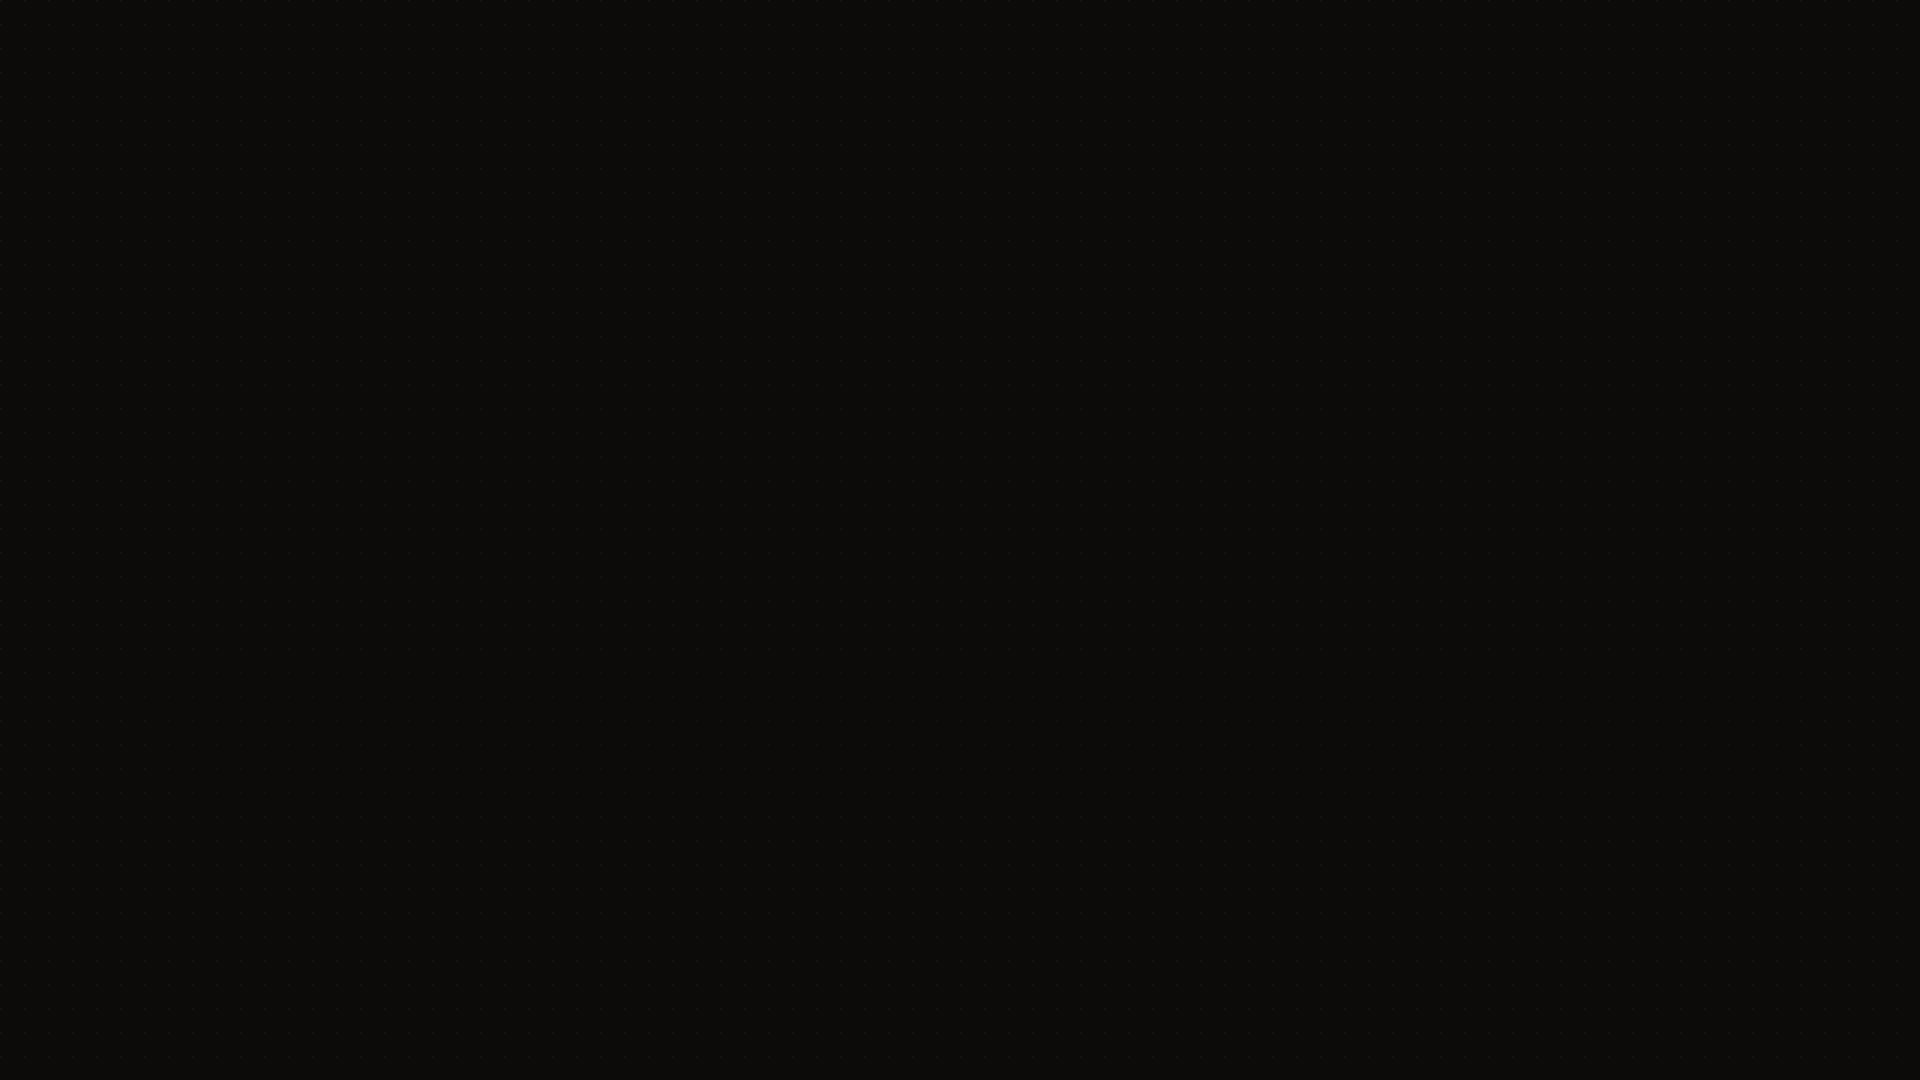
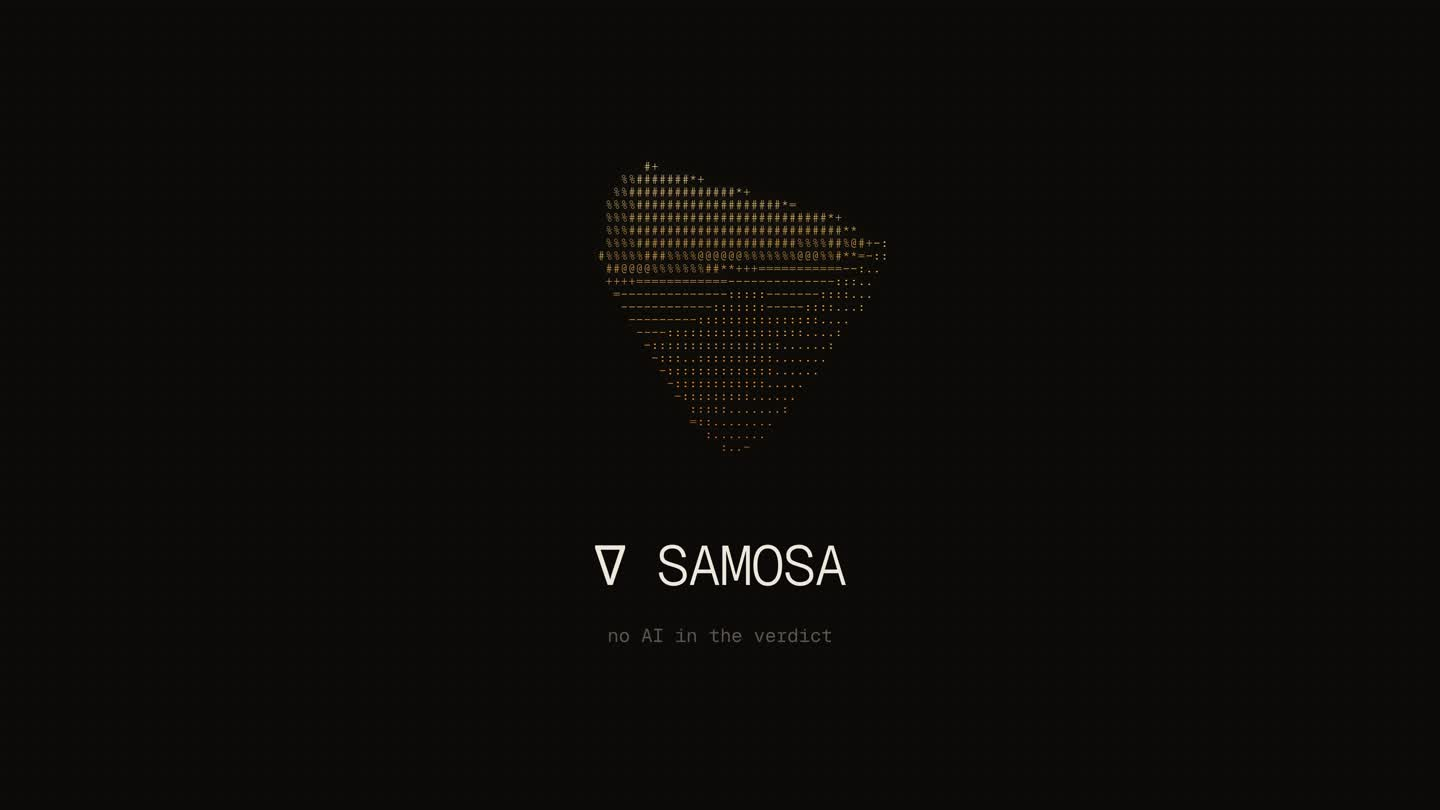
the docs are pages of the site, and every path carries the policy

Changed region(s): [[0.4062, 0.216, 0.5938, 0.4938], [0.4062, 0.6481, 0.5938, 0.7407], [0.4375, 0.7716, 0.5625, 0.8025]]

diff --git a/vite.config.ts b/vite.config.ts
@@ -12,12 +12,11 @@ const CSP =
 
 /** The local preview serves the policy the host serves, so the browser tests
  * run against the real thing. */
-const servePolicy: Connect.NextHandleFunction = (req, res, next) => {
-  const path = req.url?.split('?')[0] ?? '';
-  if (path === '/' || path === '/app' || path.startsWith('/app/')) {
-    res.setHeader('Content-Security-Policy', CSP);
-    res.setHeader('Referrer-Policy', 'no-referrer');
-  }
+const servePolicy: Connect.NextHandleFunction = (_req, res, next) => {
+  // every path, as on the host: the policy used to cover / and /app/ only,
+  // and /app without its slash, the link everyone shares, had none
+  res.setHeader('Content-Security-Policy', CSP);
+  res.setHeader('Referrer-Policy', 'no-referrer');
   next();
 };
 
@@ -26,7 +25,10 @@ const cleanUrls: Plugin = {
   name: 'clean-urls-preview',
   configurePreviewServer(server) {
     const redirectApp: Connect.NextHandleFunction = (req, _res, next) => {
-      if (req.url?.split('?')[0] === '/app') req.url = '/app/';
+      const path = req.url?.split('?')[0] ?? '';
+      if (path === '/app') req.url = '/app/';
+      // a rendered doc is served without its extension, as the host does
+      else if (/^\/docs\/[A-Z_]+$/.test(path)) req.url = `${path}.html`;
       next();
     };
     server.middlewares.use(redirectApp);

diff --git a/scripts/gen-announcements.ts b/scripts/gen-announcements.ts
@@ -34,10 +34,14 @@ export function announcementsOf(changelog: string): Announcement[] {
     const start = releases[i].index ?? 0;
     const end = i + 1 < releases.length ? (releases[i + 1].index ?? changelog.length) : changelog.length;
     const after = changelog.slice(start, end).split('\n').slice(1).join('\n');
-    const summary = after
-      .split('\n')
-      .find((line) => line.trim().length > 0 && !line.startsWith('#'))
-      ?.trim()
+    // the whole first paragraph: a changelog wraps its lines, and the first
+    // line alone stopped the 1.1.0 summary mid sentence
+    const paragraph = after
+      .split(/\n\s*\n/)
+      .map((block) => block.trim())
+      .find((block) => block.length > 0 && !block.startsWith('#'));
+    const summary = paragraph
+      ?.replace(/\s*\n\s*/g, ' ')
       .replace(/\[([^\]]+)\]\([^)]*\)/g, '$1')
       .replace(/\*([^*]*)\*/g, '$1')
       .trim();

diff --git a/docs/NOTATION.md b/docs/NOTATION.md
@@ -30,6 +30,13 @@ A run of letters is a product of single letter symbols: `cuv^\top` is c
 times u times v transpose. The only exceptions are the known functions and
 the functions you declared.
 
+A symbol you declared as a value is a factor, never a function, so
+`A (B + C)` and `x (y + z)` are products. An undeclared lowercase name before
+a parenthesis, `f(x)`, is a call.
+
+`a \times b` between two column vectors is the cross product, which makes
+both of them size 3. Anywhere else `\times` is the ordinary product.
+
 ## Scripts
 
 | Written | Read as |
@@ -38,11 +45,14 @@ the functions you declared.
 | `A^{-1}` | the inverse |
 | `A^{-\top}`, `A^{-T}` | the inverse transpose |
 | `A^{2}` | the square, or the power, depending on the shape |
-| `A^{1/2}` | the principal square root, numeric mode only |
+| `A^{1/2}`, `A^{-1/2}` | the principal square root and its inverse, numeric mode only |
+| `x^{1/3}`, `x^{-2/3}`, `x^{\frac{3}{2}}` | a rational power of a scalar, numeric mode only; an odd root keeps the sign of a negative number, an even root of one is outside the domain |
+| `A^{-2}` | the inverse of the square, and exact |
+| `A^{1/3}` | not read for a matrix: a question, with the reason |
 | `A^\dagger` | the pseudo inverse, numeric mode only |
 | `P^+`, `x^*` | a label, folded into the name |
 | `x_{k\|k-1}` | part of the name |
-| `\sqrt[k]{x}` | the k-th root, the index of the square root is the root |
+| `\sqrt[k]{x}` | the k-th root, `x^{1/k}`, for a whole number k |
 | `\begin{bmatrix} … \end{bmatrix}` | a block matrix, the blocks are its rows |
 | `\|A\|_F` | the Frobenius norm |
 | `\|A\|` | the spectral norm, with a chip |
@@ -52,6 +62,13 @@ the functions you declared.
 `\exp`, `\log`, `\ln`, `\sin`, `\cos`, `\tan`, `\tanh`, `\sqrt`, `\det`,
 `\operatorname{tr}`, `\sigma` (the sigmoid), `\operatorname{Var}`,
 `\operatorname{Cov}`, and the densities `\mathcal{N}` and `\mathcal{U}`.
+
+`\operatorname{Var}(g)` is `E[g g^\top] - E[g] E[g]^\top`, so the variance of a
+vector is its covariance matrix, and `g` can be any polynomial of the random
+variables: `\operatorname{Var}(A x)` and `\operatorname{Var}(x + y)` are read
+as written. `\operatorname{Cov}(g, h)` is `E[g h^\top] - E[g] E[h]^\top`. Two
+random variables declared apart are independent, and `x \sim
+\mathcal{N}(0, \Sigma)` has mean zero.
 
 Everything else is a symbol, unless you declared it as a function with
 `f: fn n→1`.

diff --git a/docs/HOW_IT_WORKS.md b/docs/HOW_IT_WORKS.md
@@ -94,6 +94,18 @@ each size gets three trials in each of the two primes.
 The card names the sizes that were tested, because a check at one size is
 not a check at another.
 
+### Structures in two pieces
+
+An orthogonal matrix is a rotation or a reflection, and no polynomial
+sampling of one reaches the other. So each orthogonal symbol is drawn in
+both corners, and with k of them all 2^k combinations are drawn, each one the
+full trial count, up to a cap of 64 trials. A step can be wrong on the
+reflections and right on the rotations, `\det(Q) = 1` is exactly that, and a
+trial among the rotations cannot see it. So the bound is priced on the trials
+of the least drawn corner, never on the sum of them.
+
+A rotation, declared `rot n`, is one piece, and `\det(R) = 1` holds for it.
+
 ## Gradients: dual numbers
 
 A dual number is a pair (value, tangent). The rules of forward mode
@@ -127,6 +139,8 @@ for the mixed second derivative.
 A distribution on rational atoms that matches the moments of the normal
 distribution integrates polynomials *exactly*.
 
+* The two point rule has atoms ±1 with weights 1/2. It matches E z^2 = 1,
+  so it is exact up to degree three: every mean, variance and second moment.
 * The five point rule has atoms 0, ±1, ±2 with weights 1/2, 1/6, 1/12. It
   matches E z^2 = 1 and E z^4 = 3, so it is exact up to degree five.
 * The seven point rule adds ±3 and matches E z^6 = 15 as well, so it is
@@ -134,8 +148,11 @@ distribution integrates polynomials *exactly*.
 
 For a normal variable with mean μ and covariance Σ = LL^T, the variable is
 written x = μ + Lz, and the expectation becomes a weighted sum over the
-tensor product of the atoms. The weights and the atoms are rational, so the
-whole sum runs over the finite field, and the answer is exact.
+tensor product of the atoms. Each variable gets the smallest rule that is
+exact at the degree the integrand has in it, which is what keeps two vectors
+of size four affordable: a variance needs 2^8 nodes there, not 7^8. The
+weights and the atoms are rational, so the whole sum runs over the finite
+field, and the answer is exact.
 
 The spike `spikes/quadrature_check.py` verifies the rules against exact
 fractions, and checks that each rule fails at the next degree.

diff --git a/CHANGELOG.md b/CHANGELOG.md
@@ -4,6 +4,40 @@ All notable changes to SAMOSA. The format follows
 [Keep a Changelog](https://keepachangelog.com/en/1.1.0/), and the project
 follows [semantic versioning](https://semver.org/spec/v2.0.0.html).
 
+## [Unreleased]
+
+The stochastic identities are checked, papers are read inside their
+document body, and the docs are pages of the site.
+
+### Fixed
+
+- A symbol declared as a value is a factor before a parenthesis, so
+  `A (B + C) = AB + AC` holds instead of reading `A` as an unknown function.
+- The body of `\begin{document}` and of any other prose environment is read
+  for its mathematics. It used to be skipped, so every paper went through a
+  line by line fallback that cut a row spanning two lines in half and gave a
+  false cross on a correct paper.
+- `x \sim \mathcal{N}(0, \Sigma)` has mean zero, so `E[x x^\top] = \Sigma` holds.
+- `\operatorname{Var}(g)` is `E[g g^\top] - E[g] E[g]^\top` for any polynomial
+  `g`: the variance of a vector is a matrix, and `Var(A x)` and `Var(x + y)`
+  are checked. The five stochastic Cookbook identities are checked now.
+- A rational exponent is a power, not part of a new name: `x^{1/3} x^{2/3} = x`
+  holds, `\sqrt[k]{x}` is `x^{1/k}`, and `x^{-2}` is the inverse of the square.
+- The bound of a step with orthogonal matrices is priced on the trials of the
+  least drawn corner, and every corner gets the full trial count.
+- `/app` carries the content security policy too, not only `/app/`.
+- The nav's changelog link resolves, and the docs are rendered pages.
+- The poster of the tour is a frame of it, not a black one.
+- A fix names the mistake first: "two factors are swapped, so change the right
+  side to", followed by the new side, in the app and in the CLI.
+
+### Added
+
+- `a \times b` between two vectors is the cross product, and the rotations
+  Menu item checks that a rotation carries it along.
+- The two point rule for Gaussian expectations, exact to degree three, chosen
+  whenever it is enough.
+
 ## [1.1.0] - 2026-11-03
 
 The checker is stricter about what it will call right, the browser enforces
